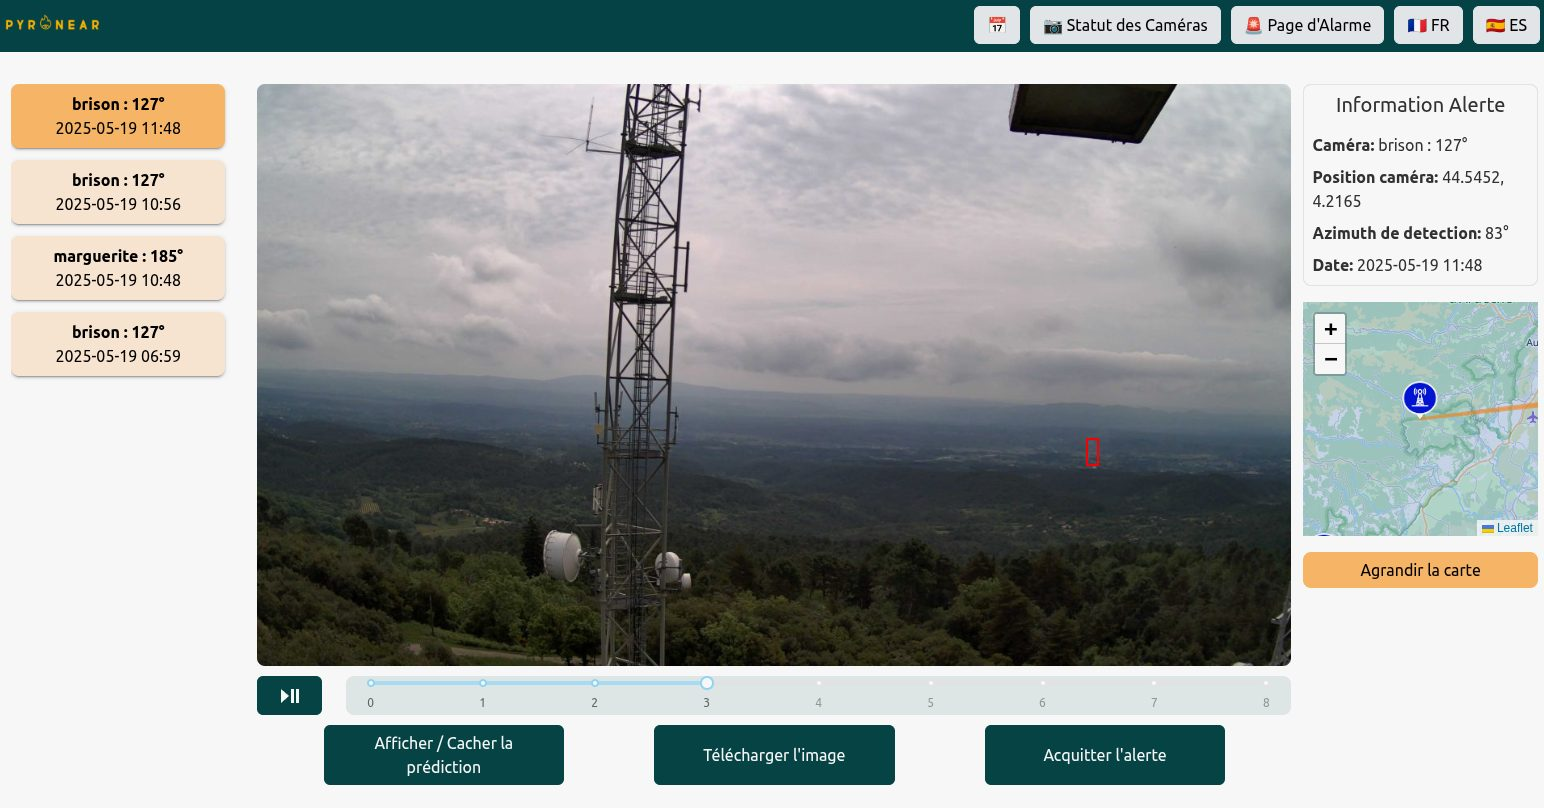
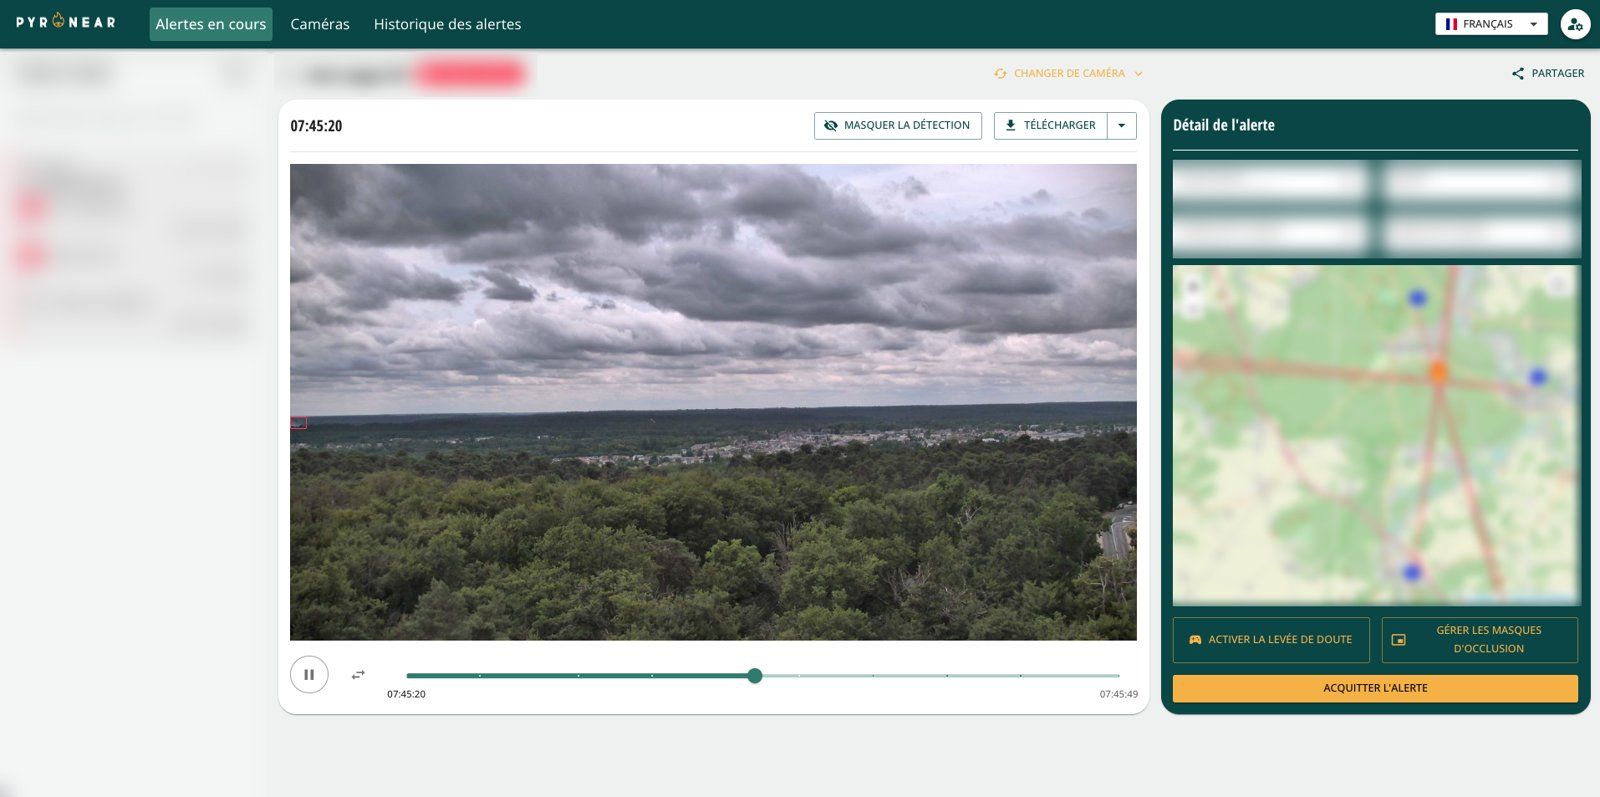
feat: describe platform features with new anonymized screenshots

diff --git a/layouts/_shortcodes/gallery.html b/layouts/_shortcodes/gallery.html
@@ -1,2 +1,2 @@
-{{- /* Grid of Markdown images: {{< gallery >}} ![alt](a.jpg) ![alt](b.jpg) {{< /gallery >}} */ -}}
-<div class="gallery">{{ .Inner | .Page.RenderString (dict "display" "block") }}</div>
+{{- /* Grid of Markdown images: {{< gallery >}} ![alt](a.jpg) ![alt](b.jpg) {{< /gallery >}}; {{< gallery "screens" >}} keeps screenshots uncropped */ -}}
+<div class="gallery{{ with .Get 0 }} gallery--{{ . }}{{ end }}">{{ .Inner | .Page.RenderString (dict "display" "block") }}</div>

diff --git a/assets/css/main.css b/assets/css/main.css
@@ -453,6 +453,18 @@ h3 {
   object-fit: cover;
 }
 
+.gallery--screens {
+  grid-template-columns: 1fr;
+  gap: 1.25rem;
+}
+
+.prose .gallery--screens img {
+  height: auto;
+  aspect-ratio: auto;
+  object-fit: contain;
+  box-shadow: var(--shadow);
+}
+
 .demo summary {
   list-style: none;
 }

diff --git a/content/how-it-works/index.es.md b/content/how-it-works/index.es.md
@@ -56,9 +56,21 @@ Cuando una estación detecta humo, las imágenes se envían a nuestra plataforma
 
 En abril de 2026, una estación detectó el primer incendio del año en el bosque de Fontainebleau, veinte minutos antes de la primera llamada de emergencia.
 
-{{< gallery >}}
-![Una alerta en la plataforma Pyronear, con la imagen de la cámara y la ubicación estimada del incendio](platform-alert.jpg)
-![Vista general de la plataforma que usan los bomberos](platform-overview.jpg)
+Lo que permite la plataforma:
+
+- **Alertas en directo**: las alertas del día, con sus secuencias de imágenes para reproducir y ampliar.
+- **Localización del incendio**: cuando varias cámaras ven el mismo humo, su posición aparece en el mapa.
+- **Verificación remota**: tomar el control de una cámara a distancia (orientación, zoom, clic para centrar) para confirmar o descartar una alerta.
+- **Etiquetado**: clasificar cada alerta como inicio de incendio, humo no relevante u otro falso positivo.
+- **Máscaras**: ignorar un humo recurrente, como la chimenea de una fábrica.
+- **Seguimiento de las cámaras**: el estado y la última imagen de cada cámara, con un aviso si una se desconecta.
+- **Compartir e historial**: enviar una alerta a un compañero, encontrar alertas pasadas y exportarlas en CSV.
+
+{{< gallery "screens" >}}
+![Una alerta en curso: imágenes de la cámara y localización del incendio en el mapa](platform-alert.jpg)
+![Etiquetado de una alerta](platform-annotation.jpg)
+![Añadir una máscara para ignorar un humo recurrente](platform-masks.jpg)
+![Vista de las cámaras con su última imagen](platform-cameras.jpg)
 {{< /gallery >}}
 
 ## Prueba el modelo

diff --git a/content/how-it-works/index.es-ct.md b/content/how-it-works/index.es-ct.md
@@ -56,9 +56,21 @@ Quan una estació detecta fum, les imatges s'envien a la nostra plataforma web. 
 
 L'abril del 2026, una estació va detectar el primer incendi de l'any al bosc de Fontainebleau, vint minuts abans de la primera trucada d'emergència.
 
-{{< gallery >}}
-![Una alerta a la plataforma Pyronear, amb la imatge de la càmera i la ubicació estimada de l'incendi](platform-alert.jpg)
-![Visió general de la plataforma que fan servir els bombers](platform-overview.jpg)
+El que permet la plataforma:
+
+- **Alertes en directe**: les alertes del dia, amb les seves seqüències d'imatges per reproduir i ampliar.
+- **Localització de l'incendi**: quan diverses càmeres veuen el mateix fum, la seva posició apareix al mapa.
+- **Verificació remota**: prendre el control d'una càmera a distància (orientació, zoom, clic per centrar) per confirmar o descartar una alerta.
+- **Etiquetatge**: classificar cada alerta com a inici d'incendi, fum no rellevant o un altre fals positiu.
+- **Màscares**: ignorar un fum recurrent, com la xemeneia d'una fàbrica.
+- **Seguiment de les càmeres**: l'estat i l'última imatge de cada càmera, amb un avís si una es desconnecta.
+- **Compartir i historial**: enviar una alerta a un company, trobar alertes passades i exportar-les en CSV.
+
+{{< gallery "screens" >}}
+![Una alerta en curs: imatges de la càmera i localització de l'incendi al mapa](platform-alert.jpg)
+![Etiquetatge d'una alerta](platform-annotation.jpg)
+![Afegir una màscara per ignorar un fum recurrent](platform-masks.jpg)
+![Vista de les càmeres amb la seva última imatge](platform-cameras.jpg)
 {{< /gallery >}}
 
 ## Prova el model

diff --git a/content/how-it-works/index.fr.md b/content/how-it-works/index.fr.md
@@ -56,9 +56,21 @@ Quand une station détecte une fumée, les images sont envoyées à notre platef
 
 En avril 2026, une station a ainsi repéré le premier feu de l'année en forêt de Fontainebleau, vingt minutes avant le premier appel au 18.
 
-{{< gallery >}}
-![Une alerte sur la plateforme Pyronear, avec l'image de la caméra et la position estimée du feu](platform-alert.jpg)
-![Vue d'ensemble de la plateforme utilisée par les pompiers](platform-overview.jpg)
+Ce que permet la plateforme :
+
+- **Alertes en direct** : les alertes du jour, avec leurs séquences d'images à faire défiler et à zoomer.
+- **Localisation du feu** : quand plusieurs caméras voient la même fumée, sa position s'affiche sur la carte.
+- **Levée de doute** : prendre la main sur une caméra à distance (orientation, zoom, clic pour centrer) pour confirmer ou écarter une alerte.
+- **Annotation** : classer chaque alerte en départ de feu, fumée non pertinente ou autre faux positif.
+- **Masques** : ignorer une fumée récurrente, comme une cheminée d'usine.
+- **Suivi des caméras** : l'état et la dernière image de chaque caméra, avec un signal en cas de coupure.
+- **Partage et historique** : envoyer une alerte à un collègue, retrouver les alertes passées et les exporter en CSV.
+
+{{< gallery "screens" >}}
+![Une alerte en cours : images de la caméra et localisation du feu sur la carte](platform-alert.jpg)
+![Annotation d'une alerte](platform-annotation.jpg)
+![Ajout d'un masque pour ignorer une fumée récurrente](platform-masks.jpg)
+![Vue des caméras avec leur dernière image](platform-cameras.jpg)
 {{< /gallery >}}
 
 ## Essayer le modèle

diff --git a/content/how-it-works/index.en.md b/content/how-it-works/index.en.md
@@ -56,9 +56,21 @@ When a station detects smoke, the images are sent to our web platform. Fire serv
 
 In April 2026, a station spotted the first fire of the year in the Fontainebleau forest, twenty minutes before the first emergency call.
 
-{{< gallery >}}
-![An alert on the Pyronear platform, with the camera image and the estimated fire location](platform-alert.jpg)
-![Overview of the platform used by firefighters](platform-overview.jpg)
+What the platform does:
+
+- **Live alerts**: today's alerts, with image sequences you can play and zoom into.
+- **Fire location**: when several cameras see the same smoke, its position appears on the map.
+- **Remote check**: take control of a camera remotely (direction, zoom, click to center) to confirm or rule out an alert.
+- **Labelling**: classify each alert as a fire start, irrelevant smoke or another false positive.
+- **Masks**: ignore recurring smoke, such as a factory chimney.
+- **Camera monitoring**: the status and latest image of each camera, with a warning if one goes offline.
+- **Sharing and history**: send an alert to a colleague, find past alerts and export them as CSV.
+
+{{< gallery "screens" >}}
+![A live alert: camera images and fire location on the map](platform-alert.jpg)
+![Labelling an alert](platform-annotation.jpg)
+![Adding a mask to ignore recurring smoke](platform-masks.jpg)
+![Camera view with the latest image from each one](platform-cameras.jpg)
 {{< /gallery >}}
 
 ## Try the model
